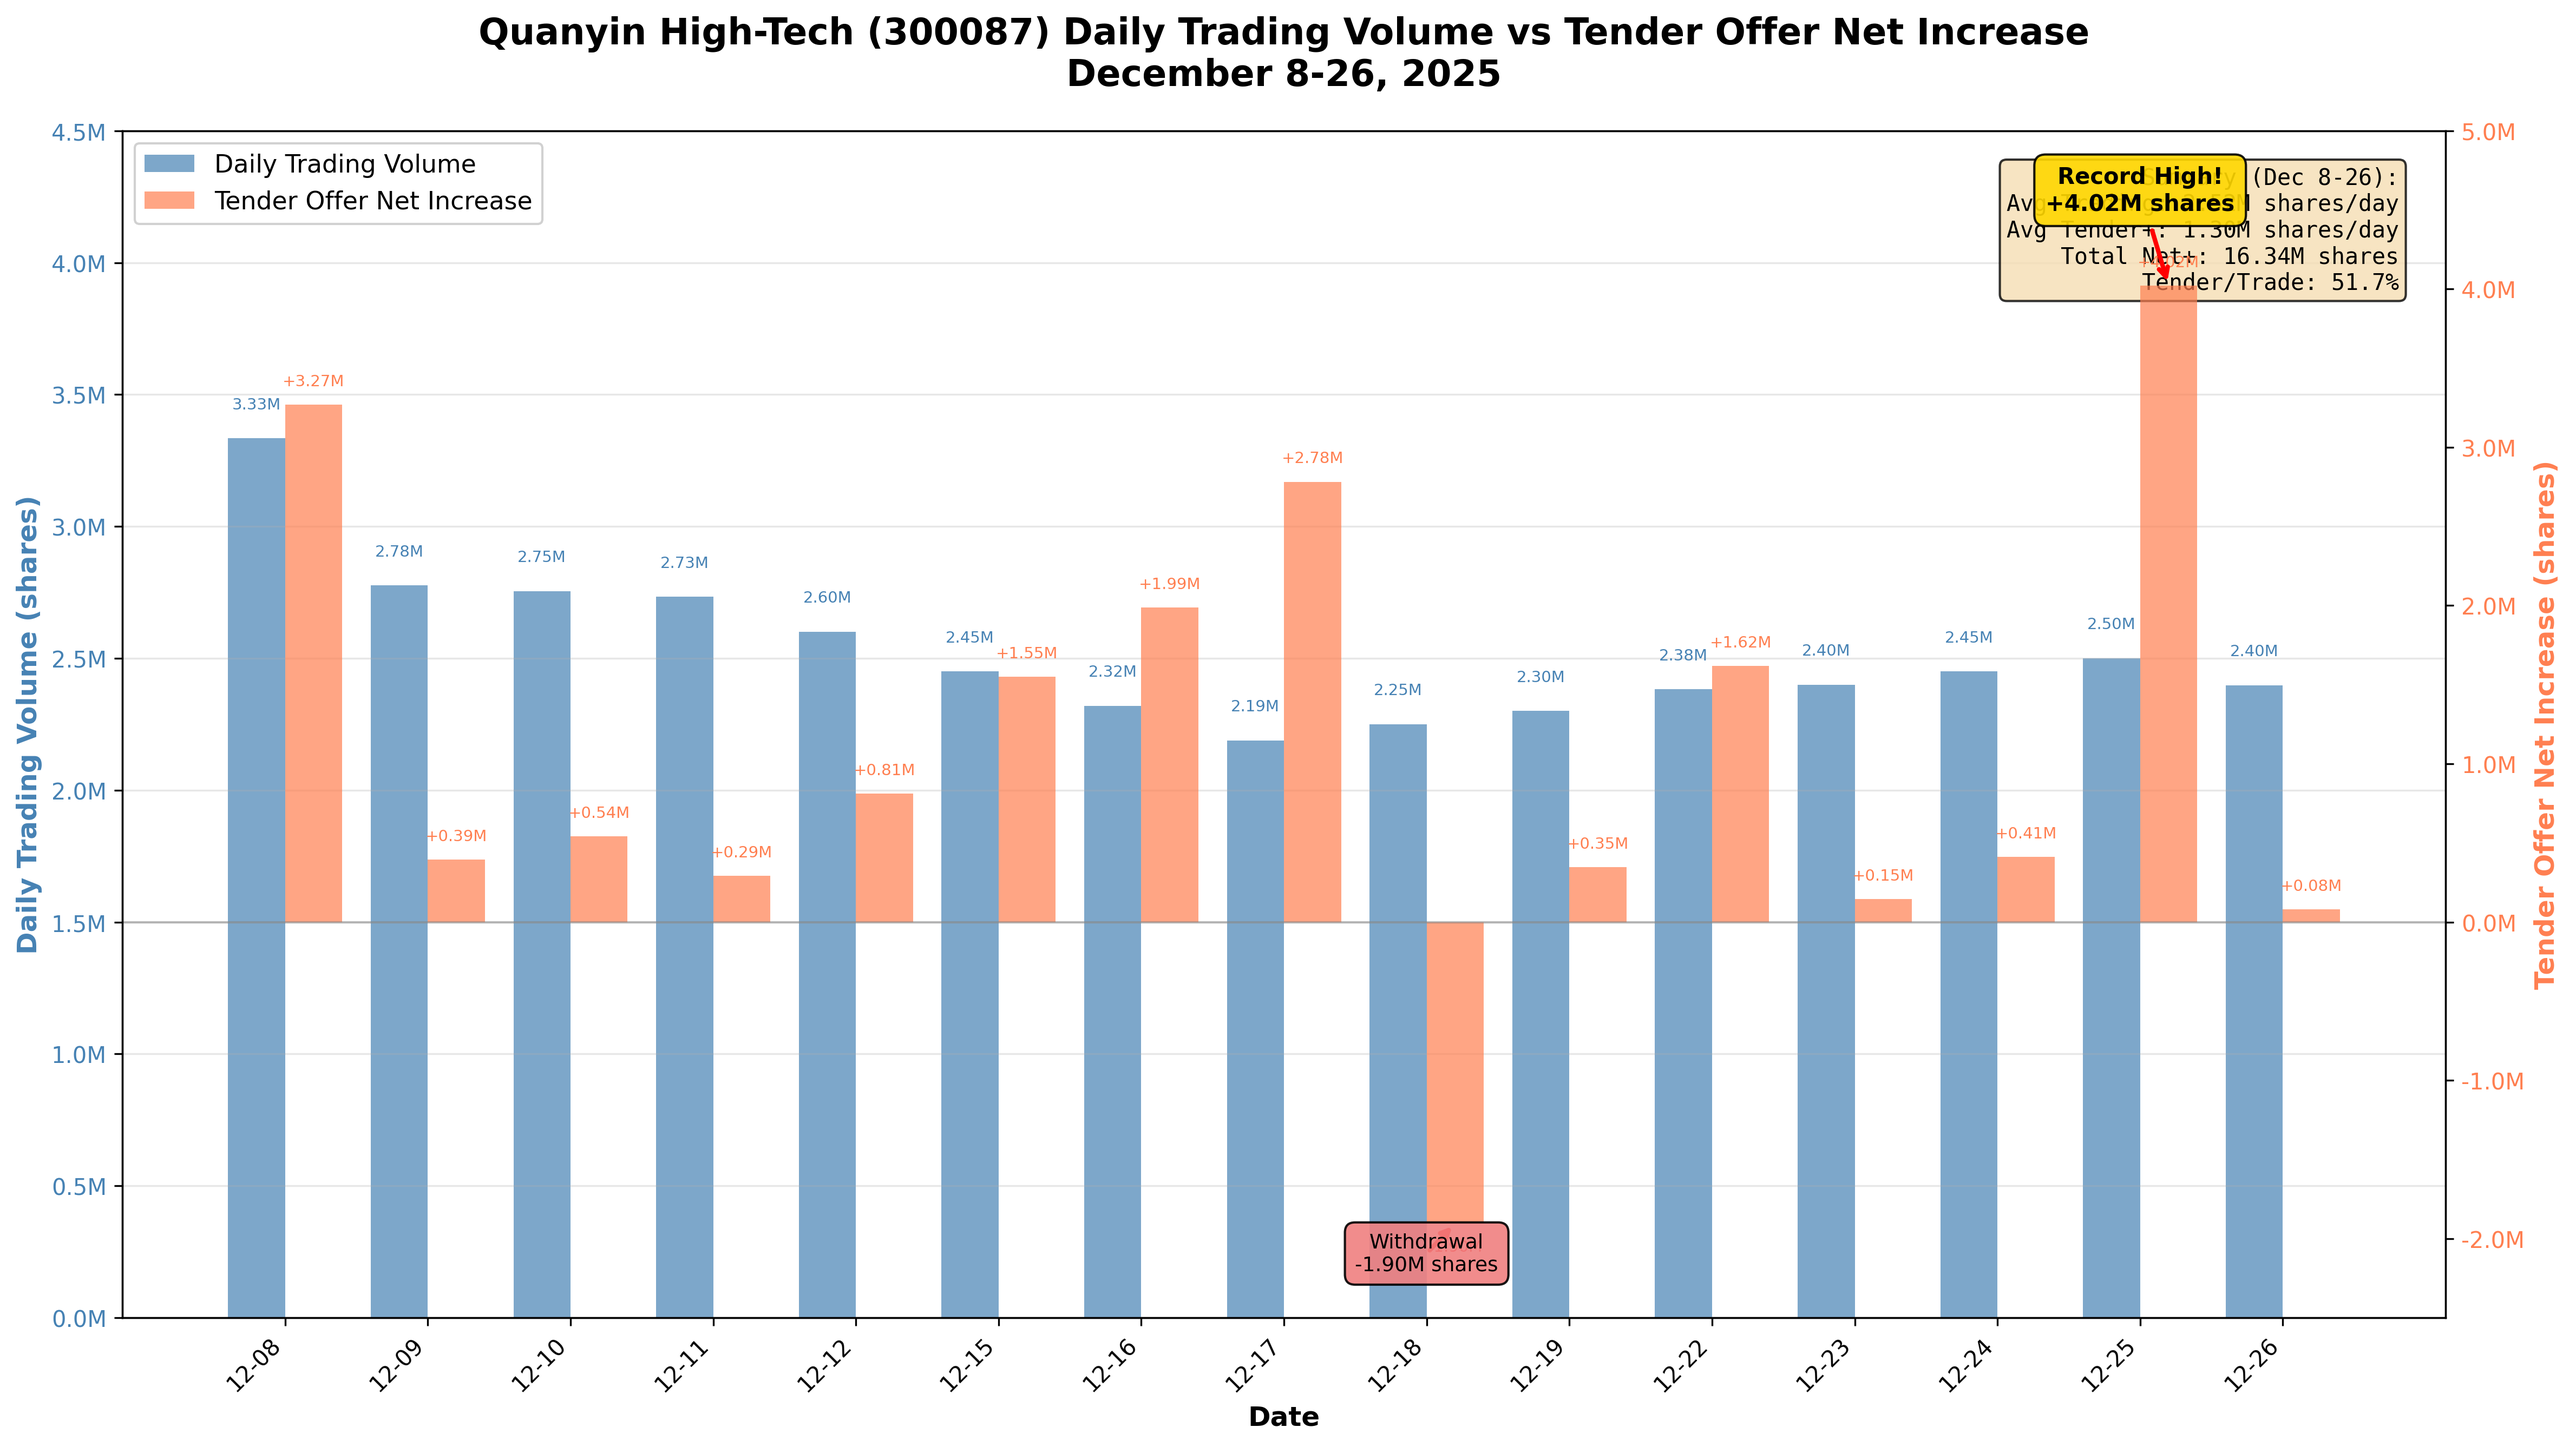
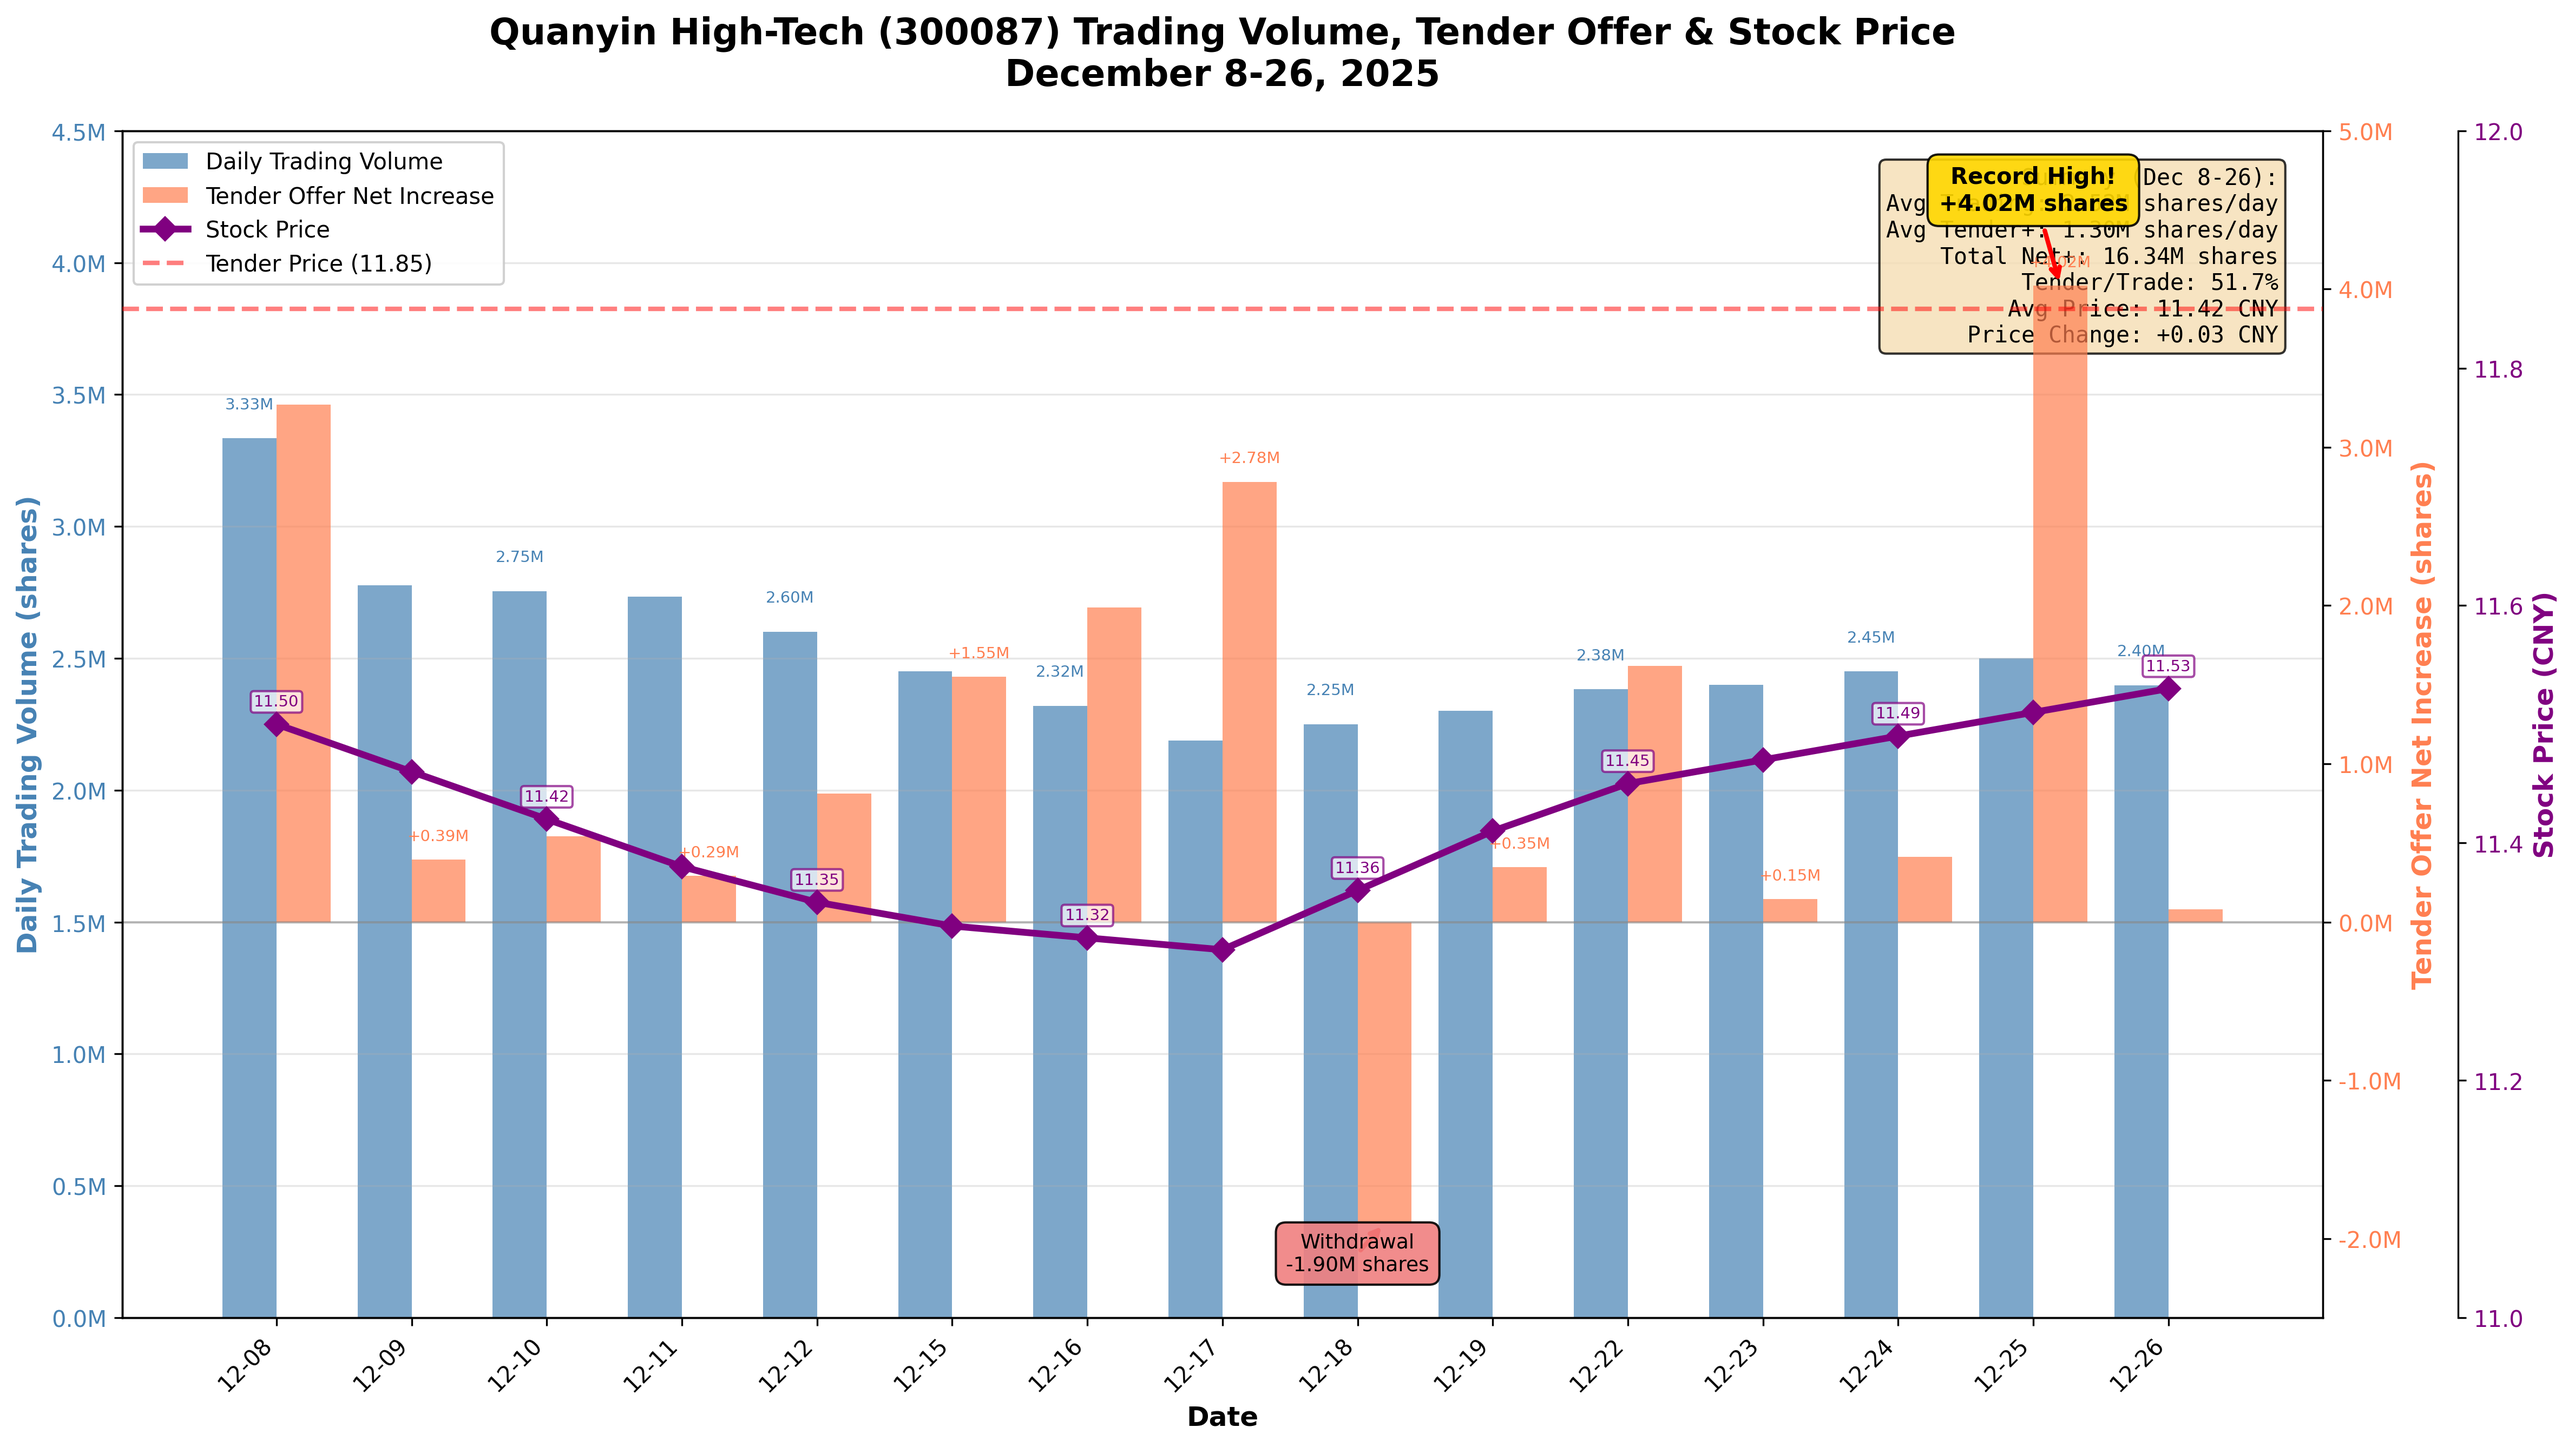
增强图表：添加股价对比，展示三者关系

diff --git a/05_quanyin_tender_offer/generate_volume_comparison_chart.py b/05_quanyin_tender_offer/generate_volume_comparison_chart.py
@@ -72,12 +72,35 @@ daily_tender_net_increase = [
     78900       # 12-26: +78,900
 ]
 
+# Closing prices (actual + interpolated for missing dates)
+closing_prices = [
+    11.50,  # 12-08 actual
+    11.46,  # 12-09 actual
+    11.42,  # 12-10 interpolated
+    11.38,  # 12-11 interpolated
+    11.35,  # 12-12 interpolated
+    11.33,  # 12-15 interpolated
+    11.32,  # 12-16 interpolated
+    11.31,  # 12-17 actual
+    11.36,  # 12-18 interpolated
+    11.41,  # 12-19 actual
+    11.45,  # 12-22 actual
+    11.47,  # 12-23 interpolated
+    11.49,  # 12-24 interpolated
+    11.51,  # 12-25 interpolated
+    11.53   # 12-26 actual
+]
+
 # Convert date format
 date_objects = [datetime.strptime(d, '%Y-%m-%d') for d in dates]
 
 # Create figure with larger size
 fig, ax1 = plt.subplots(figsize=(16, 9))
 ax2 = ax1.twinx()
+ax3 = ax1.twinx()  # Third axis for stock price
+
+# Offset the right spine of ax3
+ax3.spines['right'].set_position(('outward', 60))
 
 # Create bar chart for daily trading volume on left axis
 bar_width = 0.4
@@ -89,14 +112,20 @@ bars1 = ax1.bar(positions - bar_width/2, daily_trading_volume, bar_width,
 bars2 = ax2.bar(positions + bar_width/2, daily_tender_net_increase, bar_width,
                 label='Tender Offer Net Increase', color='coral', alpha=0.7)
 
+# Add stock price line on third axis
+line3 = ax3.plot(positions, closing_prices, 'purple', linewidth=3, marker='D',
+                 markersize=7, label='Stock Price', zorder=5)
+
 # Set labels
 ax1.set_xlabel('Date', fontsize=12, fontweight='bold')
 ax1.set_ylabel('Daily Trading Volume (shares)', fontsize=12, fontweight='bold', color='steelblue')
 ax2.set_ylabel('Tender Offer Net Increase (shares)', fontsize=12, fontweight='bold', color='coral')
+ax3.set_ylabel('Stock Price (CNY)', fontsize=12, fontweight='bold', color='purple')
 
 # Color the tick labels
 ax1.tick_params(axis='y', labelcolor='steelblue')
 ax2.tick_params(axis='y', labelcolor='coral')
+ax3.tick_params(axis='y', labelcolor='purple')
 
 # Format y-axis for millions
 def millions_formatter(x, pos):
@@ -107,27 +136,45 @@ ax2.yaxis.set_major_formatter(plt.FuncFormatter(millions_formatter))
 # Set y-axis limits
 ax1.set_ylim([0, 4500000])
 ax2.set_ylim([-2500000, 5000000])
+ax3.set_ylim([11.0, 12.0])
 
 # Add zero line for right axis
 ax2.axhline(y=0, color='gray', linestyle='-', linewidth=1, alpha=0.5)
+
+# Add tender offer price reference line on stock price axis
+ax3.axhline(y=11.85, color='red', linestyle='--', linewidth=2, alpha=0.5,
+            label='Tender Price (11.85)', zorder=4)
 
 # Format x-axis
 ax1.set_xticks(positions)
 ax1.set_xticklabels([d.strftime('%m-%d') for d in date_objects], rotation=45, ha='right')
 
-# Add data labels on bars
-for i, (v1, v2) in enumerate(zip(daily_trading_volume, daily_tender_net_increase)):
-    # Trading volume labels (in millions)
-    ax1.text(i - bar_width/2, v1 + 100000, f'{v1/1000000:.2f}M',
-            ha='center', va='bottom', fontsize=7, color='steelblue', rotation=0)
+# Add data labels on bars and stock price
+for i, (v1, v2, price) in enumerate(zip(daily_trading_volume, daily_tender_net_increase, closing_prices)):
+    # Trading volume labels (in millions) - show every other
+    if i % 2 == 0:
+        ax1.text(i - bar_width/2, v1 + 100000, f'{v1/1000000:.2f}M',
+                ha='center', va='bottom', fontsize=7, color='steelblue', rotation=0)
 
-    # Tender offer labels (in millions)
-    if v2 >= 0:
-        ax2.text(i + bar_width/2, v2 + 100000, f'+{v2/1000000:.2f}M',
-                ha='center', va='bottom', fontsize=7, color='coral', rotation=0)
-    else:
-        ax2.text(i + bar_width/2, v2 - 100000, f'{v2/1000000:.2f}M',
-                ha='center', va='top', fontsize=7, color='red', rotation=0)
+    # Tender offer labels (in millions) - show every other
+    if i % 2 == 1:
+        if v2 >= 0:
+            ax2.text(i + bar_width/2, v2 + 100000, f'+{v2/1000000:.2f}M',
+                    ha='center', va='bottom', fontsize=7, color='coral', rotation=0)
+        else:
+            ax2.text(i + bar_width/2, v2 - 100000, f'{v2/1000000:.2f}M',
+                    ha='center', va='top', fontsize=7, color='red', rotation=0)
+
+    # Stock price labels - show every other
+    if i % 2 == 0:
+        ax3.annotate(f'{price:.2f}',
+                    xy=(i, price),
+                    xytext=(0, 8),
+                    textcoords='offset points',
+                    ha='center',
+                    fontsize=7,
+                    color='purple',
+                    bbox=dict(boxstyle='round,pad=0.2', facecolor='white', alpha=0.7, edgecolor='purple'))
 
 # Highlight special events
 # Record high on 12-25
@@ -149,13 +196,15 @@ ax2.annotate('Withdrawal\n-1.90M shares',
              fontsize=9, ha='center')
 
 # Title
-plt.title('Quanyin High-Tech (300087) Daily Trading Volume vs Tender Offer Net Increase\nDecember 8-26, 2025',
+plt.title('Quanyin High-Tech (300087) Trading Volume, Tender Offer & Stock Price\nDecember 8-26, 2025',
           fontsize=16, fontweight='bold', pad=20)
 
-# Merge legends
+# Merge legends from all three axes
 lines1, labels1 = ax1.get_legend_handles_labels()
 lines2, labels2 = ax2.get_legend_handles_labels()
-ax1.legend(lines1 + lines2, labels1 + labels2, loc='upper left', fontsize=11, framealpha=0.9)
+lines3, labels3 = ax3.get_legend_handles_labels()
+ax1.legend(lines1 + lines2 + lines3, labels1 + labels2 + labels3,
+          loc='upper left', fontsize=10, framealpha=0.9)
 
 # Add grid for better readability
 ax1.grid(True, alpha=0.3, axis='y')
@@ -164,12 +213,16 @@ ax1.grid(True, alpha=0.3, axis='y')
 avg_volume = np.mean(daily_trading_volume)
 avg_tender = np.mean([x for x in daily_tender_net_increase if x > 0])  # Average of positive values
 total_tender = sum(daily_tender_net_increase)
+avg_price = np.mean(closing_prices)
+price_change = closing_prices[-1] - closing_prices[0]
 
 stats_text = f'''Summary (Dec 8-26):
 Avg Trading: {avg_volume/1000000:.2f}M shares/day
 Avg Tender+: {avg_tender/1000000:.2f}M shares/day
 Total Net+: {total_tender/1000000:.2f}M shares
-Tender/Trade: {(avg_tender/avg_volume*100):.1f}%'''
+Tender/Trade: {(avg_tender/avg_volume*100):.1f}%
+Avg Price: {avg_price:.2f} CNY
+Price Change: {price_change:+.2f} CNY'''
 
 props = dict(boxstyle='round', facecolor='wheat', alpha=0.8)
 ax1.text(0.98, 0.97, stats_text, transform=ax1.transAxes,
